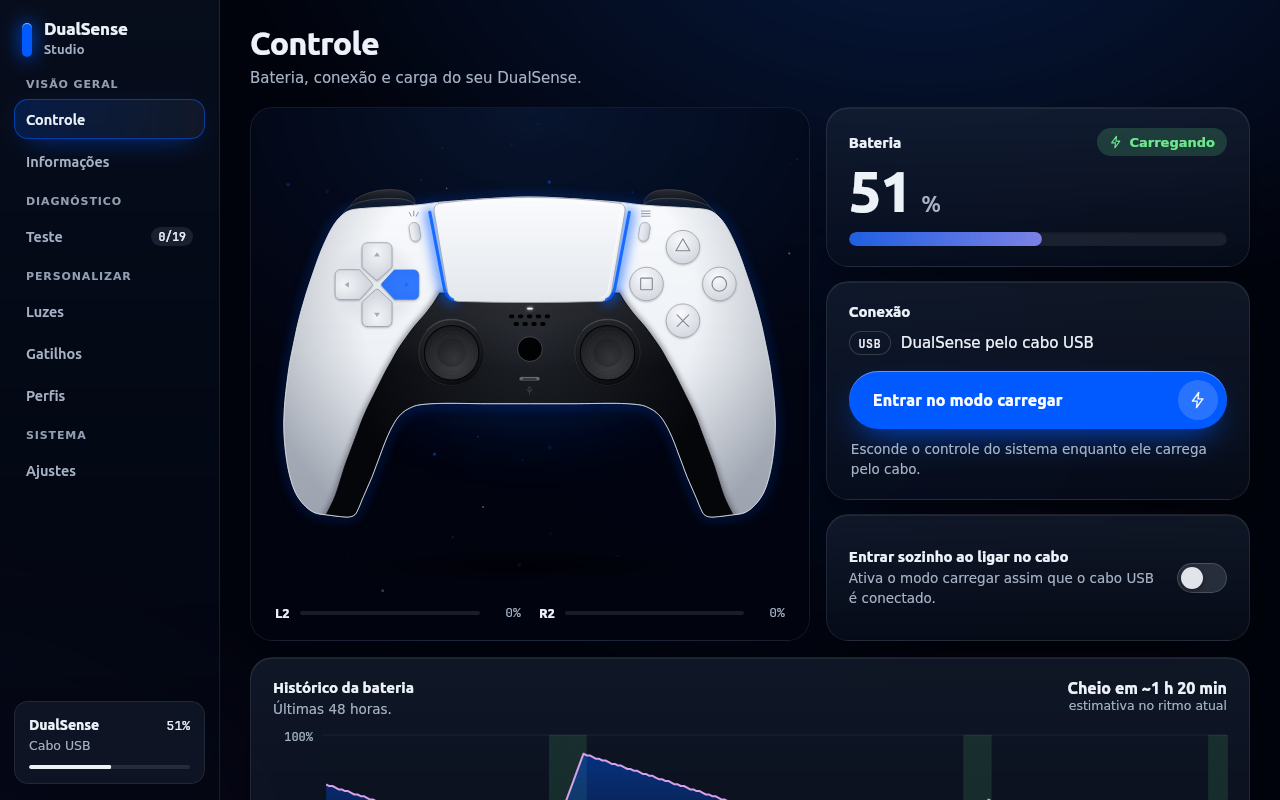
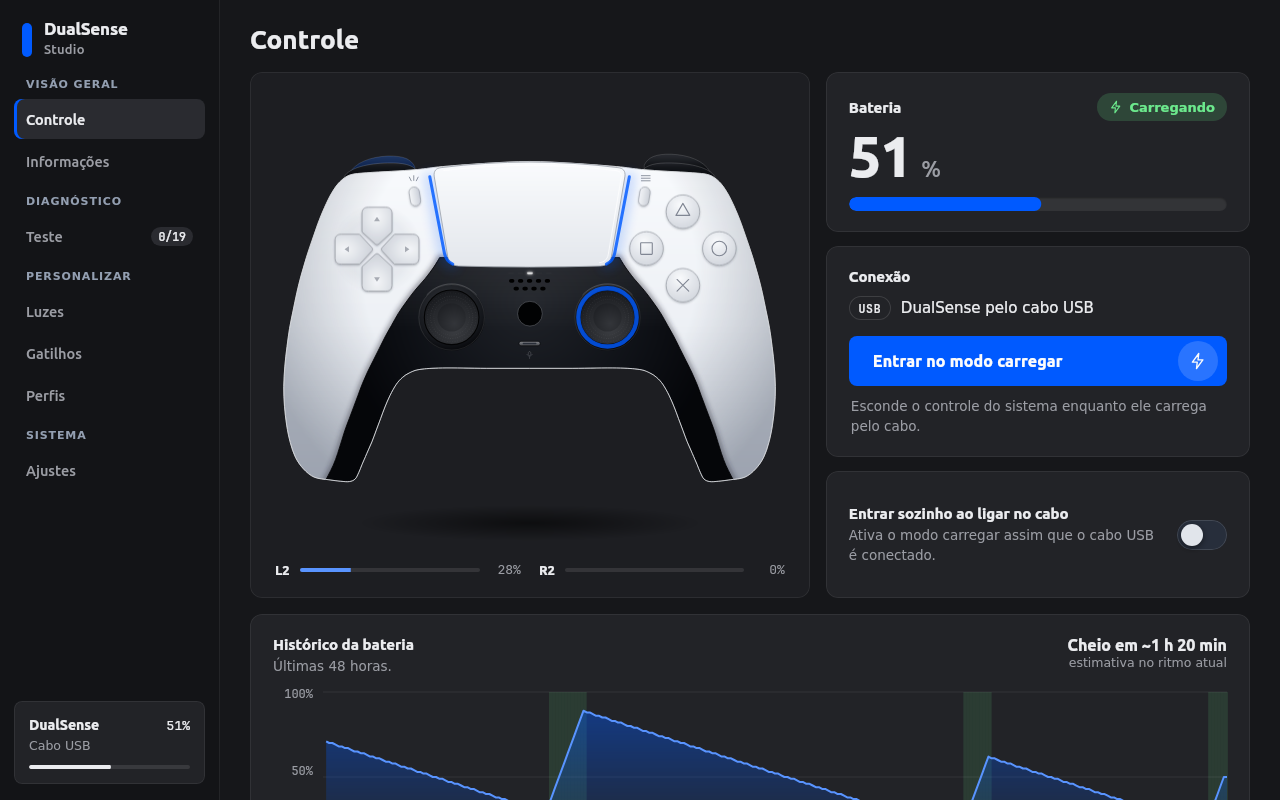
Visual mais sóbrio e README mais direto

diff --git a/ui/index.html b/ui/index.html
@@ -636,7 +636,7 @@ nav{gap:14px}
   .cl-scene .cl-lit{animation:none !important}
   .c-mic-led[data-mode="2"]{animation:none;opacity:.6}
 }
-.v.has-sw::before{content:'';display:inline-block;width:12px;height:12px;border-radius:50%;background:var(--sw);box-shadow:0 0 0 1px rgba(255,255,255,.4);margin-right:9px;vertical-align:-1px}</style>
+:root{--bg-deep:#16171a;--bg:#1b1c20;--surface:#222327;--surface-2:#2a2b30;--surface-3:#34353b;--fg:#ebecef;--muted:#9b9da4;--border:rgba(255,255,255,.07);--border-strong:rgba(255,255,255,.13);--accent-soft:color-mix(in srgb,var(--accent) 15%,transparent);--accent-line:color-mix(in srgb,var(--accent) 45%,transparent);--accent-text:color-mix(in srgb,var(--accent) 65%,#fff);--r-lg:12px;--r-md:8px}body{background:var(--bg-deep)}.side{background:#131417;backdrop-filter:none;-webkit-backdrop-filter:none}.brand-mark{box-shadow:none}.nav-btn[aria-current=page]{background:var(--surface-2);box-shadow:inset 3px 0 0 var(--accent)}.glass{background:var(--surface);box-shadow:none;backdrop-filter:none;-webkit-backdrop-filter:none}.stage{background:#1d1e22}.stage-fx,.halo,.c-sheen,.c-rim,.batt-fill i,.cs-halo{display:none}.ctrl{animation:none}.view.is-active .rise{animation:none}.lb-glow{opacity:calc(var(--glow) * .3)}.vh h1{font-size:26px;letter-spacing:0}.btn-primary,.btn-primary:hover{box-shadow:none;transform:none}.batt-fill{background:var(--accent)}.batt-fill.is-low{background:var(--warn)}.meter-cap i,.tbar i{background:var(--accent)}.wheel,.wheel.sm{box-shadow:0 0 0 1px var(--border-strong)}.sw i{box-shadow:inset 0 0 0 1px rgba(255,255,255,.25)}input[type=range]::-webkit-slider-runnable-track{background:linear-gradient(90deg,var(--accent) var(--pct),rgba(255,255,255,.12) var(--pct))}input[type=range]::-webkit-slider-thumb{box-shadow:0 1px 3px rgba(0,0,0,.5)}input[type=range]::-moz-range-thumb{box-shadow:0 1px 3px rgba(0,0,0,.5)}.led[aria-pressed=true] i,.motor.is-on .motor-viz i,.cl-chip .cl-lit{box-shadow:none}.mode input:checked + label{background:var(--accent-soft);box-shadow:none}.cl-style input:checked + label{background:color-mix(in srgb,rgb(var(--cl-rgb)) 14%,transparent)}.charge-meter i{background:var(--orange)}.charge.is-full .charge-meter i{background:var(--success)}.chk.is-now{box-shadow:0 0 0 1px var(--accent-line)}.plot,.motor-viz{background:#17181b}.tpad{background:#26272c}.tpad.is-click{box-shadow:inset 0 0 0 2px var(--accent-text)}.mo-scene{background:#1d1e22}.mo-svg{filter:none}.prof-sw{background:var(--c);box-shadow:none}.btn-primary{border-radius:var(--r-md);height:50px}.toast{background:var(--surface-3);backdrop-filter:none;-webkit-backdrop-filter:none;box-shadow:0 6px 18px rgba(0,0,0,.4)}.v.has-sw::before{content:'';display:inline-block;width:12px;height:12px;border-radius:50%;background:var(--sw);box-shadow:0 0 0 1px rgba(255,255,255,.4);margin-right:9px;vertical-align:-1px}</style>
 </head>
 <body>
 
@@ -678,7 +678,6 @@ nav{gap:14px}
     <section class="view" id="view-controle" aria-labelledby="h-controle">
       <header class="vh rise" style="--i:0">
         <h1 id="h-controle">Controle</h1>
-        <p>Bateria, conexão e carga do seu DualSense.</p>
       </header>
       <div class="ctl-grid">
         <div class="rise" style="--i:1" id="slot-controle">
@@ -745,12 +744,11 @@ nav{gap:14px}
     <section class="view" id="view-luzes" aria-labelledby="h-luzes">
       <header class="vh rise" style="--i:0">
         <h1 id="h-luzes">Luzes</h1>
-        <p>Barra de luz, LEDs de jogador e luz do microfone.</p>
       </header>
       <div class="lz-grid">
         <div class="lz-stagecol rise" style="--i:1">
           <div id="slot-luzes"></div>
-          <div class="color-name" aria-live="polite"><b id="colorName">Azul PlayStation</b><span class="mono" id="colorRgb">0 90 255</span></div>
+          <div class="color-name" aria-live="polite"><b id="colorName">Azul</b><span class="mono" id="colorRgb">0 90 255</span></div>
         </div>
         <div class="lz-cards">
           <section class="glass card rise" style="--i:2" aria-labelledby="lbTitle">
@@ -821,7 +819,6 @@ nav{gap:14px}
     <section class="view" id="view-info" aria-labelledby="h-info">
       <header class="vh rise" style="--i:0">
         <h1 id="h-info">Informações</h1>
-        <p>Identificação do controle conectado. Use Copiar para levar qualquer valor.</p>
       </header>
       <section class="glass card info-head rise" style="--i:1">
         <div class="info-mini" aria-hidden="true"><svg class="info-svg" viewBox="250 72 700 474" aria-hidden="true"><use href="#ds-l2" class="c-trig"/><use href="#ds-r2" class="c-trig"/><use href="#ds-shoulders"/><use href="#ds-shell"/><use href="#ds-stick" transform="translate(492.5 310)"/><use href="#ds-stick" transform="translate(706.5 310)"/><use href="#ds-touchpad"/><use href="#ds-strip-l" class="lb"/><use href="#ds-strip-r" class="lb"/></svg></div>
@@ -839,7 +836,6 @@ nav{gap:14px}
       <header class="vh tester-head rise" style="--i:0">
         <div>
           <h1 id="h-teste">Teste do controle</h1>
-          <p>Aperte, gire e toque. Tudo aparece aqui ao vivo.</p>
         </div>
         <div class="tester-tools">
           <div class="hz-chip" role="status" aria-label="Taxa de atualização">
@@ -1016,7 +1012,6 @@ nav{gap:14px}
     <section class="view" id="view-ajustes" aria-labelledby="h-ajustes">
       <header class="vh rise" style="--i:0">
         <h1 id="h-ajustes">Ajustes</h1>
-        <p>Atalhos, avisos e economia de energia.</p>
       </header>
       <section class="glass card rise" style="--i:1" aria-label="Ajustes do controle">
         <div class="trow">
@@ -1088,7 +1083,7 @@ const reduceMQ = matchMedia('(prefers-reduced-motion: reduce)');
 const root = document.documentElement;
 
 const PRESETS = [
-  ['Azul PlayStation', [0, 90, 255]], ['Branco', [255, 255, 255]], ['Vermelho', [255, 0, 0]],
+  ['Azul', [0, 90, 255]], ['Branco', [255, 255, 255]], ['Vermelho', [255, 0, 0]],
   ['Laranja', [255, 90, 0]], ['Amarelo', [255, 200, 0]], ['Verde', [0, 255, 40]],
   ['Ciano', [0, 220, 255]], ['Roxo', [140, 0, 255]], ['Rosa', [255, 0, 140]]
 ];

diff --git a/ferramentas/ajustar_interface.py b/ferramentas/ajustar_interface.py
@@ -123,6 +123,62 @@ def patch_marcas(html):
     return sub_once(html, r'<g clip-path="url\(#clipBody\)"><rect [^>]*fill="url\(#psTex\)"[^>]*/></g>', "", "textura")
 
 
+ESTILO = (
+    ":root{--bg-deep:#16171a;--bg:#1b1c20;--surface:#222327;--surface-2:#2a2b30;--surface-3:#34353b;"
+    "--fg:#ebecef;--muted:#9b9da4;--border:rgba(255,255,255,.07);--border-strong:rgba(255,255,255,.13);"
+    "--accent-soft:color-mix(in srgb,var(--accent) 15%,transparent);"
+    "--accent-line:color-mix(in srgb,var(--accent) 45%,transparent);"
+    "--accent-text:color-mix(in srgb,var(--accent) 65%,#fff);--r-lg:12px;--r-md:8px}"
+    "body{background:var(--bg-deep)}"
+    ".side{background:#131417;backdrop-filter:none;-webkit-backdrop-filter:none}"
+    ".brand-mark{box-shadow:none}"
+    ".nav-btn[aria-current=page]{background:var(--surface-2);box-shadow:inset 3px 0 0 var(--accent)}"
+    ".glass{background:var(--surface);box-shadow:none;backdrop-filter:none;-webkit-backdrop-filter:none}"
+    ".stage{background:#1d1e22}"
+    ".stage-fx,.halo,.c-sheen,.c-rim,.batt-fill i,.cs-halo{display:none}"
+    ".ctrl{animation:none}"
+    ".view.is-active .rise{animation:none}"
+    ".lb-glow{opacity:calc(var(--glow) * .3)}"
+    ".vh h1{font-size:26px;letter-spacing:0}"
+    ".btn-primary,.btn-primary:hover{box-shadow:none;transform:none}"
+    ".batt-fill{background:var(--accent)}.batt-fill.is-low{background:var(--warn)}"
+    ".meter-cap i,.tbar i{background:var(--accent)}"
+    ".wheel,.wheel.sm{box-shadow:0 0 0 1px var(--border-strong)}"
+    ".sw i{box-shadow:inset 0 0 0 1px rgba(255,255,255,.25)}"
+    "input[type=range]::-webkit-slider-runnable-track{background:linear-gradient(90deg,var(--accent) var(--pct),"
+    "rgba(255,255,255,.12) var(--pct))}"
+    "input[type=range]::-webkit-slider-thumb{box-shadow:0 1px 3px rgba(0,0,0,.5)}"
+    "input[type=range]::-moz-range-thumb{box-shadow:0 1px 3px rgba(0,0,0,.5)}"
+    ".led[aria-pressed=true] i,.motor.is-on .motor-viz i,.cl-chip .cl-lit{box-shadow:none}"
+    ".mode input:checked + label{background:var(--accent-soft);box-shadow:none}"
+    ".cl-style input:checked + label{background:color-mix(in srgb,rgb(var(--cl-rgb)) 14%,transparent)}"
+    ".charge-meter i{background:var(--orange)}.charge.is-full .charge-meter i{background:var(--success)}"
+    ".chk.is-now{box-shadow:0 0 0 1px var(--accent-line)}"
+    ".plot,.motor-viz{background:#17181b}"
+    ".tpad{background:#26272c}.tpad.is-click{box-shadow:inset 0 0 0 2px var(--accent-text)}"
+    ".mo-scene{background:#1d1e22}.mo-svg{filter:none}"
+    ".prof-sw{background:var(--c);box-shadow:none}"
+    ".btn-primary{border-radius:var(--r-md);height:50px}"
+    ".toast{background:var(--surface-3);backdrop-filter:none;-webkit-backdrop-filter:none;"
+    "box-shadow:0 6px 18px rgba(0,0,0,.4)}"
+)
+
+SUBTITULOS = (
+    "Bateria, conexão e carga do seu DualSense.",
+    "Barra de luz, LEDs de jogador e luz do microfone.",
+    "Identificação do controle conectado. Use Copiar para levar qualquer valor.",
+    "Aperte, gire e toque. Tudo aparece aqui ao vivo.",
+    "Atalhos, avisos e economia de energia.",
+)
+
+
+def patch_estilo(html):
+    for texto in SUBTITULOS:
+        html = sub_once(html, r"\s*<p[^>]*>\s*" + re.escape(texto) + r"\s*</p>", "", texto[:30])
+    html = sub_once(html, r"Azul PlayStation", "Azul", "nome da cor", count=None)
+    return sub_once(html, r"</style>", ESTILO + "</style>", "estilo sóbrio")
+
+
 def patch(html):
     defs = (
         f'<mask id="mLightbar" maskUnits="userSpaceOnUse" x="{PHOTO["x"]}" y="{PHOTO["y"]}" '
@@ -166,7 +222,7 @@ def main():
         html = f.read()
     html = patch_layers(patch(html)) if "--foto" in sys.argv else patch_marcas(html)
     with open(dst, "w", encoding="utf-8") as f:
-        f.write(patch_host(patch_tester(patch_info(html))))
+        f.write(patch_host(patch_tester(patch_info(patch_estilo(html)))))
     print(f"ok: {dst}")
 
 

diff --git a/README.md b/README.md
@@ -1,47 +1,29 @@
-<div align="center">
-
-<img src="dados/com.ayrames.DualSenseStudio.svg" width="96" alt="">
-
 # DualSense Studio
 
-**O controle do PS5 no computador, com um visual à altura dele.**
-
 [![Empacotar](https://github.com/ayramesteodosio/dualsense-studio/actions/workflows/empacotar.yml/badge.svg)](https://github.com/ayramesteodosio/dualsense-studio/actions/workflows/empacotar.yml)
-![Python](https://img.shields.io/badge/python-3.10%2B-3776ab)
-![Linux](https://img.shields.io/badge/Linux-WebKitGTK-4a86cf)
-![Windows](https://img.shields.io/badge/Windows-WebView2-0078d4)
-![macOS](https://img.shields.io/badge/macOS-WebKit-555555)
+
+Outra interface para o [Painel do DualSense](https://github.com/ayramesteodosio/dualsense-painel), com o
+controle desenhado na tela. O desenho acompanha o controle ao vivo: cor da barra de luz, LEDs, botões
+apertados e pressão dos gatilhos. Toda a parte que conversa com o controle vem do painel; este repo é só a
+interface.
 
 <img src="docs/capturas/controle.png" alt="Aba Controle">
 
-</div>
+## Funções
 
-## O que ele faz
-
-O controle desenhado na tela acompanha tudo ao vivo: a cor da barra de luz, os LEDs, os botões
-apertados e a pressão dos gatilhos.
-
-**🔋 Modo carregar.** No cabo USB, o controle some do sistema, até da Steam, e a barra pulsa enquanto
-carrega. Dá para entrar sozinho ao ligar o cabo ou pelo atalho PS + Options.
-
-**🌈 Luz de carga.** Cor, estilo (respirar, fixa, piscar), duração do ciclo, intensidade e o que fazer
-quando encher. Muda na hora, inclusive carregando.
-
-**💡 Luzes.** Roda de cores para a barra de luz, modo que mostra a bateria, LEDs do jogador, luz do
-microfone e teste de vibração.
-
-**🎯 Gatilhos adaptativos.** Os sete efeitos com gráfico do curso, ajuste de cada parâmetro e pressão
-ao vivo.
-
-**🩺 Teste.** Botões com checklist, analógicos (zona morta, drift, circularidade), gatilhos, touchpad,
-giroscópio e acelerômetro, vibração por motor, áudio (alto-falante, fone e microfone), taxa de
-atualização e relatório de diagnóstico em Markdown.
-
-**🏷 Informações.** Modelo, cor de fábrica, placa (BDM), número de série, firmware, hardware, MAC,
-conexão e bateria.
-
-**⚙ E mais.** Perfis, histórico de bateria com estimativa, aviso de bateria baixa e desligamento por
-inatividade no Bluetooth.
+- Modo carregar: no cabo USB, o controle some do sistema, até da Steam, e a barra pulsa enquanto carrega.
+  Pode entrar sozinho ao ligar o cabo ou pelo atalho PS + Options.
+- Luz de carga: cor, estilo (respirar, fixa, piscar), duração do ciclo, intensidade e o que fazer quando
+  encher.
+- Barra de luz com roda de cores, modo que mostra a bateria, LEDs do jogador, luz do microfone e teste de
+  vibração.
+- Gatilhos adaptativos: os sete efeitos, com gráfico do curso e pressão ao vivo.
+- Teste: botões, analógicos (zona morta, drift, circularidade), gatilhos, touchpad, giroscópio,
+  acelerômetro, vibração por motor, áudio (alto-falante, fone e microfone) e taxa de atualização, com
+  relatório em Markdown.
+- Informações: modelo, cor de fábrica, placa (BDM), número de série, firmware, hardware, MAC, conexão e
+  bateria.
+- Perfis, histórico de bateria, aviso de bateria baixa e desligamento por inatividade no Bluetooth.
 
 <table>
 <tr>
@@ -54,9 +36,6 @@ inatividade no Bluetooth.
 </tr>
 </table>
 
-A parte que conversa com o controle vem do [Painel do DualSense](https://github.com/ayramesteodosio/dualsense-painel).
-Este repo é a interface.
-
 ## Baixar
 
 | Sistema | Como |
@@ -65,9 +44,8 @@ Este repo é a interface.
 | Windows | `.zip` em [Releases](https://github.com/ayramesteodosio/dualsense-studio/releases) |
 | macOS (Apple Silicon e Intel) | `.zip` com o `.app` em [Releases](https://github.com/ayramesteodosio/dualsense-studio/releases) |
 
-> [!NOTE]
-> Windows e macOS foram testados com um controle simulado e com o pacote rodando no Linux, mas ainda não
-> em máquinas reais. Se algo não funcionar, abra uma issue.
+Windows e macOS ainda não foram testados em máquinas reais, só com um controle simulado e com o pacote
+rodando no Linux. Se algo não funcionar, abra uma issue.
 
 ## Instalar no Linux
 
@@ -100,8 +78,7 @@ permissão de administrador ao esconder e mostrar o controle.
 Fechar a janela no Windows e no macOS encerra o app e devolve o controle ao sistema. No Linux, no modo
 carregar, o app continua em segundo plano.
 
-<details>
-<summary><b>Como funciona</b></summary>
+## Como funciona
 
 - `ui/fonte/index.html` é a fonte da interface.
 - `ui/index.html` é a interface final, gerada a partir da anterior por
@@ -112,12 +89,12 @@ carregar, o app continua em segundo plano.
   pywebview (Windows e macOS).
 - `dualsense_studio/bridge.py` traduz as mensagens da interface para o `Session` do painel.
 
-**Foto do controle (opcional).** Com `--foto`, o script troca o desenho por uma foto: coloque
+Foto do controle (opcional): Com `--foto`, o script troca o desenho por uma foto: coloque
 `ui/dualsense-base.png` e a máscara da barra de luz `ui/dualsense-lightbar.png` e gere
 `ui/index-foto.html`. Se os três arquivos existirem, o app usa essa versão. Use uma foto sua, não
 material de divulgação da Sony. Por enquanto esses arquivos ficam fora do git.
 
-**Mensagens.** Da interface para o app, `window.webkit.messageHandlers.ds.postMessage(...)` no Linux ou
+Mensagens: Da interface para o app, `window.webkit.messageHandlers.ds.postMessage(...)` no Linux ou
 `window.pywebview.api.send(...)` fora dele, sempre com `JSON.stringify({type, payload})`: `ready`,
 `setLightbar`, `setPlayerLeds`, `setMicLed`, `setTrigger`, `testRumble`, `rumble`, `setCharging`,
 `setChargeGlow`, `setAutoCharge`, `setChargeLight`, `setLightbarMode`, `setShortcut`, `setLowBattery`,
@@ -127,10 +104,7 @@ material de divulgação da Sony. Por enquanto esses arquivos ficam fora do git.
 
 Para depurar a interface dentro do app: `DS_DEVTOOLS=1 ./dualsense-studio` (botão direito, Inspecionar).
 
-</details>
-
-<details>
-<summary><b>Gerar o .exe e o .app</b></summary>
+## Gerar o .exe e o .app
 
 O fluxo `.github/workflows/empacotar.yml` gera os pacotes no GitHub Actions ao criar uma tag `v*` (e
 publica em Releases) ou manualmente pela aba Actions. Ele baixa o `dualsense-painel` da mesma conta.
@@ -144,8 +118,6 @@ DUALSENSE_PAINEL=../dualsense-painel python -m PyInstaller --noconfirm empacotar
 
 Os ícones saem de `dados/com.ayrames.DualSenseStudio.svg` com `python3 ferramentas/gerar_icones.py`
 (precisa de cairosvg e Pillow).
-
-</details>
 
 ## Aviso
 
